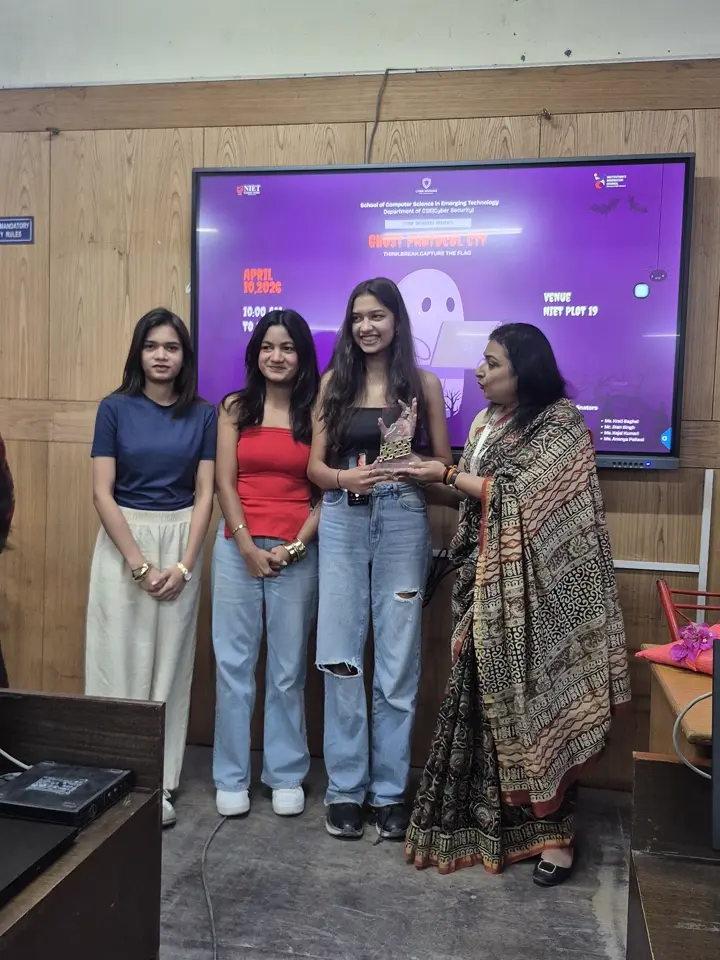
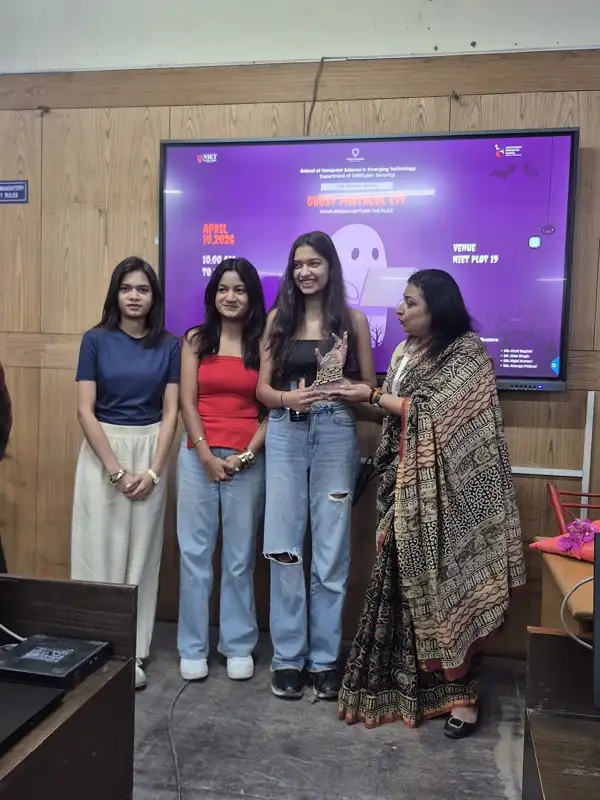
feat: expand the photo archive to 48 shots from the closing ceremony
- Add a `featured` flag to ArchivePhoto so the homepage grid keeps its
  curated 12 while /glimpses renders the entire archive via homepagePhotos
- Replace the stage group photo (archive-2) with the prize distribution shot
- Add 36 new photos from the shared Drive folder as archive-13..48, each
  encoded to webp under 50KB
- Re-encode the existing archive photos, which were 51-116KB, to fit the
  same 50KB budget

diff --git a/lib/archive-photos.ts b/lib/archive-photos.ts
@@ -9,6 +9,10 @@
  * which is what lets every photo keep its own proportions — no cropping, no
  * stretching, and no layout shift as the grid reflows.
  *
+ * `featured` marks the photos that also appear in the homepage grid. The
+ * homepage renders only those; /glimpses renders the entire archive. Every
+ * photo is encoded to webp under 50KB.
+ *
  * Order is deliberate: it is the sequence the photos are meant to read in.
  */
 export type ArchivePhoto = {
@@ -16,19 +20,314 @@ export type ArchivePhoto = {
   w: number
   h: number
   alt: string
+  featured?: boolean
 }
 
 export const archivePhotos: ArchivePhoto[] = [
-  { src: '/archive-1.webp', w: 1200, h: 789, alt: 'Hands-on workshop session with mentors' },
-  { src: '/archive-2.webp', w: 1200, h: 878, alt: 'Cyber Invaders group photo on stage' },
-  { src: '/archive-3.webp', w: 1200, h: 995, alt: 'Cyber Invaders team on stage' },
-  { src: '/archive-8.webp', w: 720, h: 960, alt: 'Trophy presentation at the closing ceremony' },
-  { src: '/archive-4.webp', w: 1200, h: 626, alt: 'Students at competition workstations' },
-  { src: '/archive-5.webp', w: 1200, h: 645, alt: 'Workshop wide view' },
-  { src: '/archive-6.webp', w: 1200, h: 892, alt: 'Team collaboration shot' },
-  { src: '/archive-7.webp', w: 1200, h: 844, alt: 'Hackers in action' },
-  { src: '/archive-9.webp', w: 1297, h: 844, alt: 'Guest speaker addressing the Cyber Invaders audience' },
-  { src: '/archive-10.webp', w: 1099, h: 814, alt: 'Participants at the event with the club crew' },
-  { src: '/archive-11.webp', w: 1081, h: 823, alt: 'Cyber Invaders members during the event' },
-  { src: '/archive-12.webp', w: 1116, h: 823, alt: 'Attendees gathered at the Cyber Invaders session' },
+  // ── Homepage selection ───────────────────────────────────────────────
+  {
+    src: '/archive-1.webp',
+    w: 1000,
+    h: 658,
+    alt: 'Hands-on workshop session with mentors',
+    featured: true,
+  },
+  {
+    src: '/archive-2.webp',
+    w: 560,
+    h: 746,
+    alt: 'Winners receiving certificates and a prize hamper',
+    featured: true,
+  },
+  {
+    src: '/archive-3.webp',
+    w: 1100,
+    h: 912,
+    alt: 'Cyber Invaders team on stage',
+    featured: true,
+  },
+  {
+    src: '/archive-8.webp',
+    w: 600,
+    h: 800,
+    alt: 'Trophy presentation at the closing ceremony',
+    featured: true,
+  },
+  {
+    src: '/archive-4.webp',
+    w: 1100,
+    h: 574,
+    alt: 'Students at competition workstations',
+    featured: true,
+  },
+  {
+    src: '/archive-5.webp',
+    w: 900,
+    h: 484,
+    alt: 'Workshop wide view',
+    featured: true,
+  },
+  {
+    src: '/archive-6.webp',
+    w: 800,
+    h: 594,
+    alt: 'Team collaboration shot',
+    featured: true,
+  },
+  {
+    src: '/archive-7.webp',
+    w: 700,
+    h: 492,
+    alt: 'Hackers in action',
+    featured: true,
+  },
+  {
+    src: '/archive-9.webp',
+    w: 1200,
+    h: 780,
+    alt: 'Guest speaker addressing the Cyber Invaders audience',
+    featured: true,
+  },
+  {
+    src: '/archive-10.webp',
+    w: 1200,
+    h: 888,
+    alt: 'Participants at the event with the club crew',
+    featured: true,
+  },
+  {
+    src: '/archive-11.webp',
+    w: 1200,
+    h: 914,
+    alt: 'Cyber Invaders members during the event',
+    featured: true,
+  },
+  {
+    src: '/archive-12.webp',
+    w: 1200,
+    h: 884,
+    alt: 'Attendees gathered at the Cyber Invaders session',
+    featured: true,
+  },
+
+  // ── Full archive (/glimpses only) ─────────────────────────────────────
+  {
+    src: '/archive-13.webp',
+    w: 700,
+    h: 526,
+    alt: 'Certificate handover with the faculty coordinator',
+  },
+  {
+    src: '/archive-14.webp',
+    w: 700,
+    h: 526,
+    alt: 'Winners posing with their certificates after the ceremony',
+  },
+  {
+    src: '/archive-15.webp',
+    w: 700,
+    h: 526,
+    alt: 'Group photo with faculty after the closing ceremony',
+  },
+  {
+    src: '/archive-16.webp',
+    w: 700,
+    h: 526,
+    alt: 'Certificate winners lined up alongside faculty',
+  },
+  {
+    src: '/archive-17.webp',
+    w: 700,
+    h: 526,
+    alt: 'Full group portrait at the closing ceremony',
+  },
+  {
+    src: '/archive-18.webp',
+    w: 700,
+    h: 526,
+    alt: 'Faculty coordinator with the winning team',
+  },
+  {
+    src: '/archive-19.webp',
+    w: 800,
+    h: 600,
+    alt: 'A certificate being presented to a winner',
+  },
+  {
+    src: '/archive-20.webp',
+    w: 800,
+    h: 600,
+    alt: 'Winner receiving her certificate on stage',
+  },
+  {
+    src: '/archive-21.webp',
+    w: 640,
+    h: 854,
+    alt: 'Prize hamper presented to the winners',
+  },
+  {
+    src: '/archive-22.webp',
+    w: 800,
+    h: 600,
+    alt: 'Winners with gift hampers and the faculty council',
+  },
+  {
+    src: '/archive-23.webp',
+    w: 700,
+    h: 524,
+    alt: 'Winners holding prizes alongside the faculty council',
+  },
+  {
+    src: '/archive-24.webp',
+    w: 700,
+    h: 524,
+    alt: 'Award winners grouped with the organizers',
+  },
+  {
+    src: '/archive-25.webp',
+    w: 700,
+    h: 524,
+    alt: 'Certificate winners with the faculty coordinator',
+  },
+  {
+    src: '/archive-26.webp',
+    w: 800,
+    h: 600,
+    alt: 'Prize hamper and certificate for the winning team',
+  },
+  {
+    src: '/archive-27.webp',
+    w: 700,
+    h: 524,
+    alt: 'Bottles and hamper awarded to the winners',
+  },
+  {
+    src: '/archive-28.webp',
+    w: 700,
+    h: 524,
+    alt: 'Winners with their prizes and trophies',
+  },
+  {
+    src: '/archive-29.webp',
+    w: 700,
+    h: 524,
+    alt: 'Prize distribution with the faculty coordinator',
+  },
+  {
+    src: '/archive-30.webp',
+    w: 700,
+    h: 524,
+    alt: 'Two winners receiving their certificates',
+  },
+  {
+    src: '/archive-31.webp',
+    w: 800,
+    h: 600,
+    alt: 'Winners pose with certificates and faculty',
+  },
+  {
+    src: '/archive-32.webp',
+    w: 800,
+    h: 600,
+    alt: 'Certificate presentation at the closing ceremony',
+  },
+  {
+    src: '/archive-33.webp',
+    w: 700,
+    h: 524,
+    alt: 'Winner with a certificate beside the faculty coordinator',
+  },
+  {
+    src: '/archive-34.webp',
+    w: 700,
+    h: 524,
+    alt: 'Team posing with certificates at the ceremony',
+  },
+  {
+    src: '/archive-35.webp',
+    w: 800,
+    h: 600,
+    alt: 'Certificate handover for the winning team',
+  },
+  {
+    src: '/archive-36.webp',
+    w: 800,
+    h: 600,
+    alt: 'Winners with a prize hamper and certificates',
+  },
+  {
+    src: '/archive-37.webp',
+    w: 800,
+    h: 600,
+    alt: 'Prize hamper presented to the winners',
+  },
+  {
+    src: '/archive-38.webp',
+    w: 800,
+    h: 600,
+    alt: 'Full club group photo in front of the event screen',
+  },
+  {
+    src: '/archive-39.webp',
+    w: 800,
+    h: 600,
+    alt: 'Cyber Invaders crew group portrait',
+  },
+  {
+    src: '/archive-40.webp',
+    w: 800,
+    h: 600,
+    alt: 'Attendees group photo at the closing ceremony',
+  },
+  {
+    src: '/archive-41.webp',
+    w: 800,
+    h: 600,
+    alt: 'Full group portrait with the faculty coordinator',
+  },
+  {
+    src: '/archive-42.webp',
+    w: 800,
+    h: 600,
+    alt: 'Everyone on stage for the closing group photo',
+  },
+  {
+    src: '/archive-43.webp',
+    w: 800,
+    h: 600,
+    alt: 'Group photo of participants and organizers',
+  },
+  {
+    src: '/archive-44.webp',
+    w: 800,
+    h: 600,
+    alt: 'Closing ceremony group portrait',
+  },
+  {
+    src: '/archive-45.webp',
+    w: 600,
+    h: 802,
+    alt: 'Close-up of the prize hamper',
+  },
+  {
+    src: '/archive-46.webp',
+    w: 900,
+    h: 674,
+    alt: 'Participants at the NIET lab after the ceremony',
+  },
+  {
+    src: '/archive-47.webp',
+    w: 700,
+    h: 934,
+    alt: 'Winners posing with their certificates',
+  },
+  {
+    src: '/archive-48.webp',
+    w: 700,
+    h: 934,
+    alt: 'Three winners holding their certificates',
+  },
 ]
+
+/** Photos shown in the homepage grid — the curated selection. */
+export const homepagePhotos: ArchivePhoto[] = archivePhotos.filter((p) => p.featured)

diff --git a/components/sections/glimpses.tsx b/components/sections/glimpses.tsx
@@ -2,7 +2,7 @@
 
 import { SectionHeading } from '@/components/section-heading'
 import { ArchiveGallery } from '@/components/sections/archive-gallery'
-import { archivePhotos } from '@/lib/archive-photos'
+import { homepagePhotos } from '@/lib/archive-photos'
 
 export function Glimpses() {
   return (
@@ -15,7 +15,7 @@ export function Glimpses() {
         />
 
         <div className="mt-14">
-          <ArchiveGallery photos={archivePhotos} />
+          <ArchiveGallery photos={homepagePhotos} />
         </div>
       </div>
     </section>
